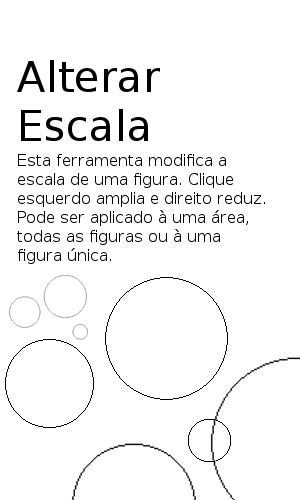
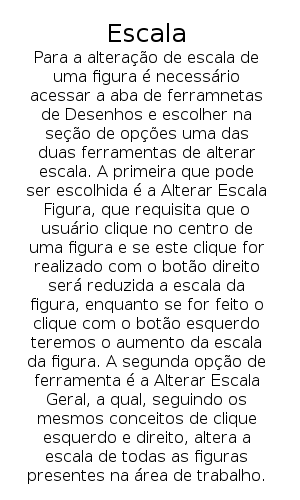
Commit final. Gerando funcionalidades de save e intruções prontas.

diff --git a/src/pacote18762/view/Instrucoes.java b/src/pacote18762/view/Instrucoes.java
@@ -34,8 +34,13 @@ public class Instrucoes extends JFrame{
 	private static final String STR_TITULO = "Instruções - ";
 	private static final String STR_DESENHO = "Desenho";
 	private static final String STR_AT = "Á. Trabalho";
-	private static final String STR_RETAS = "Retas", STR_CIRCULOS = "Circulos", STR_ELIPSE= "Elipse", STR_POLIGONO= "Poligono",STR_RETANGULO = "Retangulo", STR_TEXT = "Texto";
-	private static final String[] op_desenho = {STR_RETAS, STR_CIRCULOS, STR_ELIPSE, STR_POLIGONO, STR_RETANGULO, STR_TEXT};
+	private static final String STR_RETAS = "Retas", STR_CIRCULOS = "Circulos", STR_ELIPSE= "Elipse", STR_POLIGONO= "Poligono";
+	private static final String STR_RETANGULO = "Retangulo", STR_TEXT = "Texto", STR_ESCALA= "Escala", STR_LINHAS= "Tipos de Linha";
+	private static final String STR_MOVER = "Mover", STR_ROT = "Rotacionar", STR_BORRACHA = "Borracha", STR_TAM_LETRA = "Tamanho da Letra", STR_COR_LINHA = "Cor da Linha";
+	private static final String[] op_desenho = {STR_RETAS, STR_CIRCULOS, STR_ELIPSE, STR_POLIGONO, STR_RETANGULO, STR_TEXT, STR_TAM_LETRA,STR_ESCALA, STR_LINHAS, STR_COR_LINHA, STR_MOVER, STR_ROT, STR_BORRACHA};
+	
+	private static final String STR_PTO_REF = "Pontos de Referência", STR_SELECAO = "Seleção de Área", STR_GRADE = "Grade", STR_FUNDO = "Cor de Fundo";
+	private static final String[] op_at= {STR_PTO_REF, STR_SELECAO, STR_GRADE, STR_FUNDO};
 	
 	// Dim dos botões
 	private Dimension dim;
@@ -83,6 +88,13 @@ public class Instrucoes extends JFrame{
 						case STR_POLIGONO : display_panel.getGraphics().drawImage(ImageIO.read(new File("info/poligonos.png")), 0, 0, null); setTitle(STR_TITULO+STR_POLIGONO); break;
 						case STR_RETANGULO : display_panel.getGraphics().drawImage(ImageIO.read(new File("info/retangulo.png")), 0, 0, null); setTitle(STR_TITULO+STR_RETANGULO); break;
 						case STR_TEXT : display_panel.getGraphics().drawImage(ImageIO.read(new File("info/textos.png")), 0, 0, null); setTitle(STR_TITULO+STR_TEXT); break;
+						case STR_TAM_LETRA : display_panel.getGraphics().drawImage(ImageIO.read(new File("info/tamletra.png")), 0, 0, null); setTitle(STR_TITULO+STR_TAM_LETRA); break;
+						case STR_ESCALA : display_panel.getGraphics().drawImage(ImageIO.read(new File("info/escala.png")), 0, 0, null); setTitle(STR_TITULO+STR_ESCALA); break;
+						case STR_LINHAS : display_panel.getGraphics().drawImage(ImageIO.read(new File("info/linhas.png")), 0, 0, null); setTitle(STR_TITULO+STR_LINHAS); break;
+						case STR_COR_LINHA: display_panel.getGraphics().drawImage(ImageIO.read(new File("info/corlinha.png")), 0, 0, null); setTitle(STR_TITULO+STR_COR_LINHA); break;
+						case STR_MOVER : display_panel.getGraphics().drawImage(ImageIO.read(new File("info/mover.png")), 0, 0, null); setTitle(STR_TITULO+STR_MOVER); break;
+						case STR_ROT : display_panel.getGraphics().drawImage(ImageIO.read(new File("info/rotacionar.png")), 0, 0, null); setTitle(STR_TITULO+STR_ROT); break;
+						case STR_BORRACHA : display_panel.getGraphics().drawImage(ImageIO.read(new File("info/borracha.png")), 0, 0, null); setTitle(STR_TITULO+STR_BORRACHA); break;
 					}
 				} catch (IOException e) {
 					// TODO Auto-generated catch block
@@ -95,8 +107,19 @@ public class Instrucoes extends JFrame{
 			
 			@Override
 			public void actionPerformed(ActionEvent arg0) {
-				JComboBox<String> list = new JComboBox<String>(new String[] {"Tamanho 1", "Tamanho 2", "Tamanho 3"});
-				JOptionPane.showMessageDialog(null, list, "Escolha o tamanho letra:", JOptionPane.PLAIN_MESSAGE);
+				JComboBox<String> list = new JComboBox<String>(op_at);
+				JOptionPane.showMessageDialog(null, list, "Escolha um tópico:", JOptionPane.PLAIN_MESSAGE);
+				try {
+					switch(list.getSelectedItem().toString()){
+						case STR_PTO_REF : display_panel.getGraphics().drawImage(ImageIO.read(new File("info/pontoreferencia.png")), 0, 0, null); setTitle(STR_TITULO+STR_PTO_REF); break;
+						case STR_SELECAO : display_panel.getGraphics().drawImage(ImageIO.read(new File("info/selecao.png")), 0, 0, null); setTitle(STR_TITULO+STR_SELECAO); break;
+						case STR_GRADE: display_panel.getGraphics().drawImage(ImageIO.read(new File("info/grade.png")), 0, 0, null); setTitle(STR_TITULO+STR_GRADE); break;
+						case STR_FUNDO : display_panel.getGraphics().drawImage(ImageIO.read(new File("info/corfundo.png")), 0, 0, null); setTitle(STR_TITULO+STR_FUNDO); break;
+					}
+				} catch (IOException e) {
+					// TODO Auto-generated catch block
+					e.printStackTrace();
+				}
 			}
 		});
 		

diff --git a/src/pacote18762/view/App.java b/src/pacote18762/view/App.java
@@ -1167,6 +1167,8 @@ public class App {
 				
 				try {
 					rb = new Robot();
+					System.out.println("X: "+drawPanel.getLocationOnScreen().getX());
+					System.out.println("Y: "+drawPanel.getLocationOnScreen().getY());
 					int x = (int) (ctrFigura.selecao_multipla.getLado0().getPtoInicial().getX()+drawPanel.getLocationOnScreen().getX());
 					int y = (int) (ctrFigura.selecao_multipla.getLado0().getPtoInicial().getY()+drawPanel.getLocationOnScreen().getY());
 					p = new Point(x,y);
@@ -1174,6 +1176,8 @@ public class App {
 					width = (int)Math.round(ctrPonto.dist(ctrFigura.selecao_multipla.getLado3().getPtoInicial(), ctrFigura.selecao_multipla.getLado3().getPtoFinal()));
 					
 					ctrFigura.apagar_ret_selecao(drawPanel, cor_area_de_trabalho);
+					ctrFigura.move_figura_dentro_selecao(p1, p1, drawPanel, cor_area_de_trabalho);
+					ctrFigura.draw_all_again(drawPanel);
 					
 					shot = rb.createScreenCapture(new Rectangle(p, new Dimension(width,height)));
 					JFileChooser chooser = new JFileChooser();

diff --git a/src/pacote18762/control/ControleRetangulo.java b/src/pacote18762/control/ControleRetangulo.java
@@ -120,7 +120,7 @@ public class ControleRetangulo extends ControleFigura {
 		
 		Ponto aux = new Ponto();
 		
-		if(p1.getY() < p2.getY()){
+		if(p1.getY() > p2.getY()){
 			aux = p1;
 			p1 = p2;
 			p2 = aux;
@@ -128,7 +128,7 @@ public class ControleRetangulo extends ControleFigura {
 		
 		Ponto p3 = new Ponto(p1.getX(),p2.getY()), p4 = new Ponto(p2.getX(),p1.getY());
 		
-		if(p1.getX() < p4.getX()){
+		if(p1.getX() > p4.getX()){
 			aux = p1;
 			p1 = p4;
 			p4 = aux;
